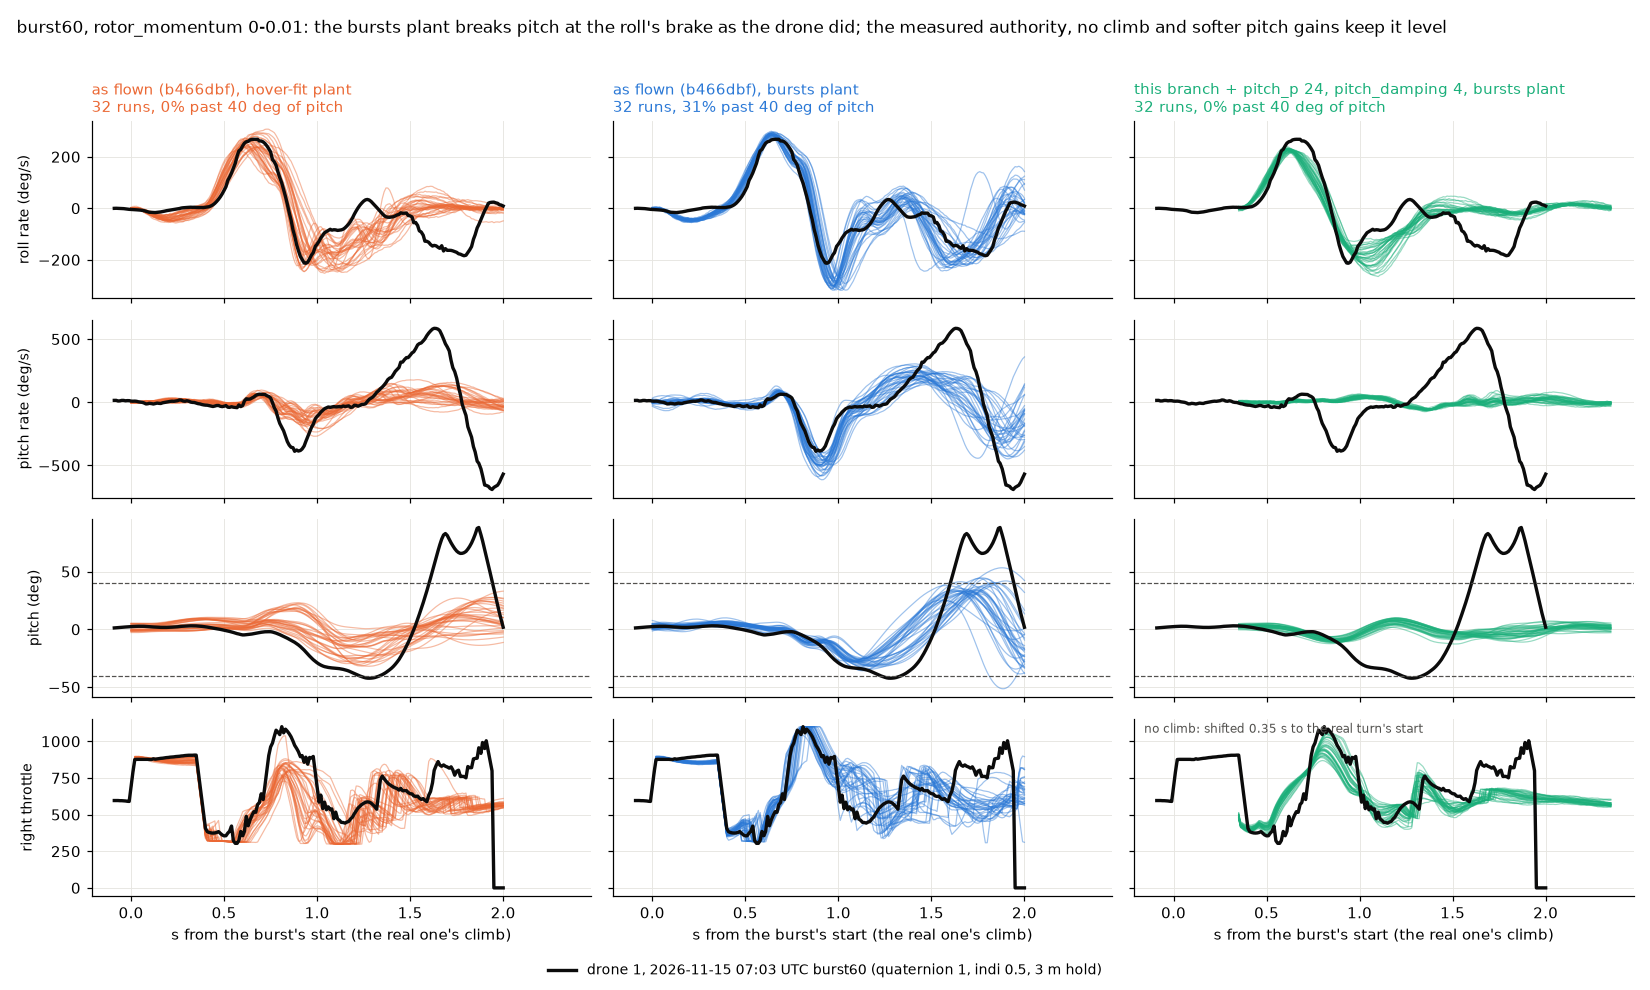
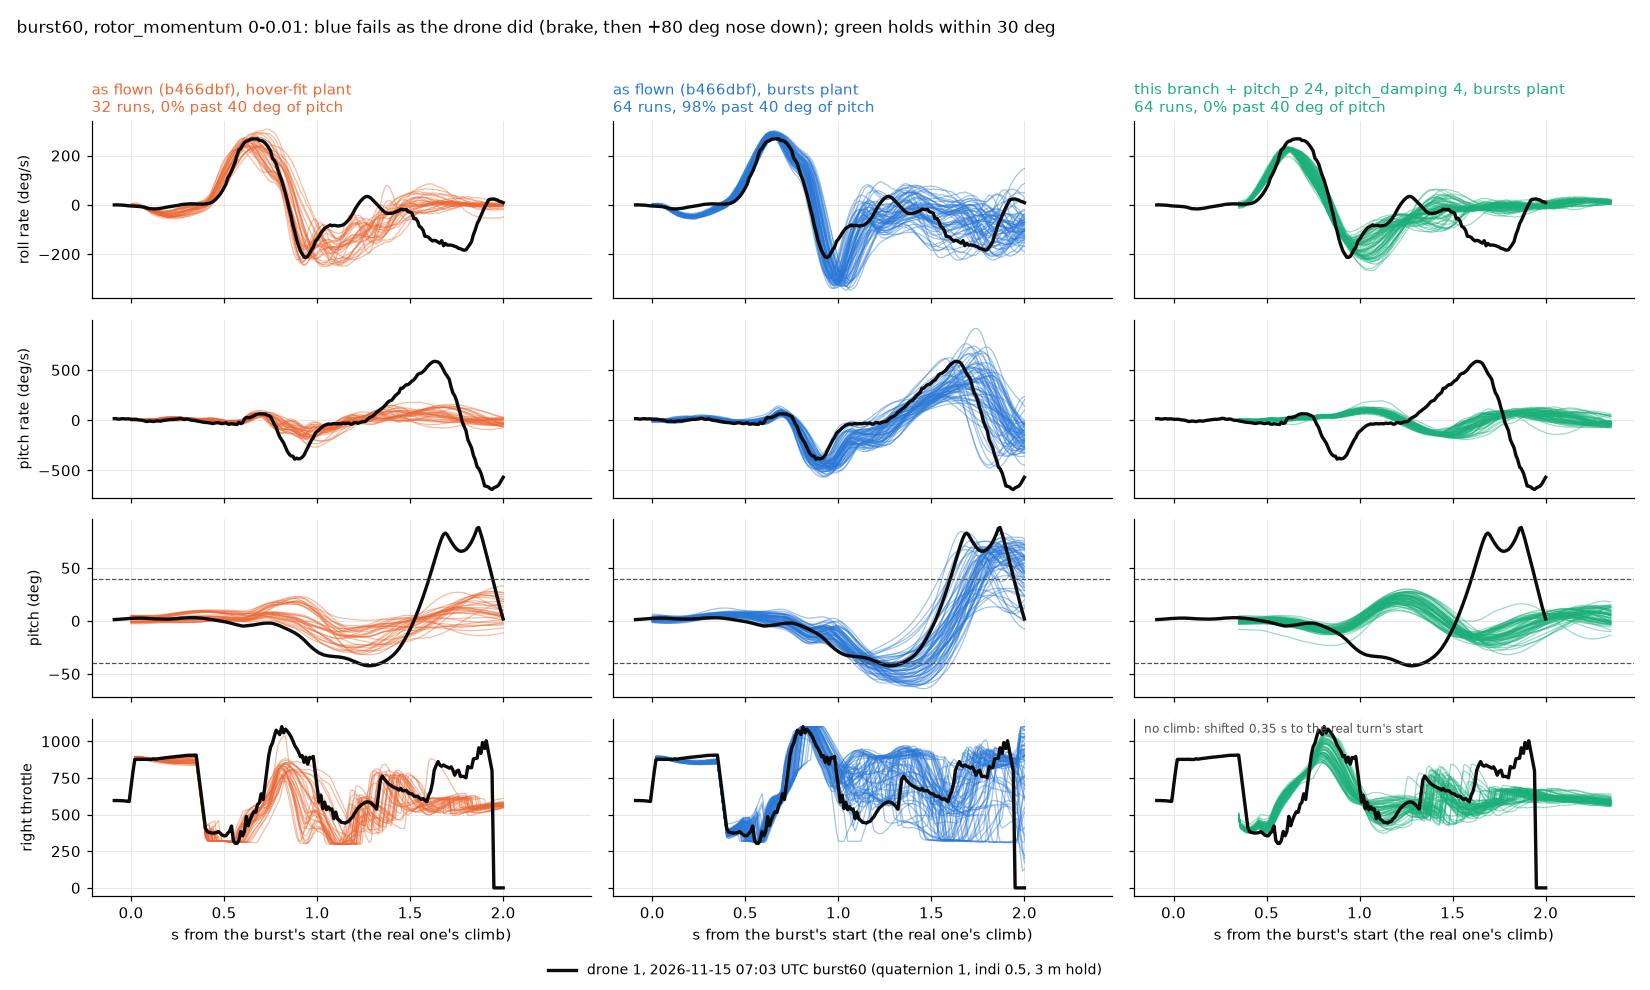
The bursts' plant, second half: burst60's nose-down swing after the brake is the forward speed's pitch moment past rigid.py's 1.5 m/s clip and tilt fade. New optional speed_range (rigid.py, rigid_step.c, which now carries speed_moment2); burst_replay sets the logged velocity (from attitude and speci

diff --git a/src/sw/sim/rigid.py b/src/sw/sim/rigid.py
@@ -40,7 +40,7 @@ AIR_DRAG = 0.03
 SOURCE = Path(__file__).with_name("rigid_step.c")
 LIBRARY = Path(__file__).with_name("rigid_step.so")
 # The scalar parameters in rigid_step.c's Params order (airframe parameters, then the geometry's constants as airframe.resolve gives them, then the thrust trim, then this sim's constants, then HULL).
-C_AIRFRAME = ("motor_delay", "right_motor_delay", "motor_tau", "right_motor_tau", "right_thrust_gain", "servo_delay", "right_servo_delay", "servo_wn", "right_servo_wn", "servo_zeta", "servo_slew", "link_k", "link_c", "left_play", "right_play", "left_band", "right_band", "band_k", "right_gain", "prop_torque", "prop_momentum", "inflow_damping", "edgewise_damping", "wash", "pitch_wake", "wake_tau", "roll_pendulum", "pitch_pendulum", "roll_from_yaw", "yaw_from_roll", "vx_pitch", "vx_drag", "vy_roll", "vy_drag", "tilt_push", "motor_start", "servo_compliance", "rotor_momentum", "motor_tau_down", "motor_idle", "motor_floor", "motor_coast", "motor_ceiling", "coast_below", "climb_inflow")
+C_AIRFRAME = ("motor_delay", "right_motor_delay", "motor_tau", "right_motor_tau", "right_thrust_gain", "servo_delay", "right_servo_delay", "servo_wn", "right_servo_wn", "servo_zeta", "servo_slew", "link_k", "link_c", "left_play", "right_play", "left_band", "right_band", "band_k", "right_gain", "prop_torque", "prop_momentum", "inflow_damping", "edgewise_damping", "wash", "pitch_wake", "wake_tau", "roll_pendulum", "pitch_pendulum", "roll_from_yaw", "yaw_from_roll", "vx_pitch", "vx_drag", "vy_roll", "vy_drag", "tilt_push", "motor_start", "servo_compliance", "rotor_momentum", "motor_tau_down", "motor_idle", "motor_floor", "motor_coast", "motor_ceiling", "coast_below", "climb_inflow", "speed_range", "speed_moment2")
 C_GEOMETRY = ("Ixx", "Iyy", "Izz", "arm", "cx", "cy", "tilt_arm", "hr", "hx", "hy", "J")
 loaded = None
 
@@ -265,7 +265,9 @@ class Sim:
         fade = np.clip((math.pi / 2 - np.arccos(np.clip(up[:, 2], -1, 1))) / (math.pi / 2 - ATTITUDE_RANGE), 0, 1)
         st.att = np.clip(np.column_stack([np.arctan2(up[:, 1], up[:, 2]), np.arctan2(-up[:, 0], np.hypot(up[:, 1], up[:, 2]))]), -ATTITUDE_RANGE, ATTITUDE_RANGE) * fade[:, None]
         rotated = np.einsum("nji,nj->ni", R0, self.vel)
-        st.vel = np.clip(rotated[:, :2], -SPEED_RANGE, SPEED_RANGE) * fade[:, None]
+        # Models with speed_range see the body-plane speed to it, unfaded (airframe.py).
+        reach = self.p["speed_range"] or SPEED_RANGE
+        st.vel = np.clip(rotated[:, :2], -reach, reach) * (1.0 if self.p["speed_range"] else fade[:, None])
         st.axial = rotated[:, 2:3]
         # The airframe's in-flight terms (attitude and speed moments, pushes) come with the rotors' thrust: off on the ground, and fading as the motors spin down, so a drone that has cut its motors is not pushed over.
         airborne = (self.contact_now == 0) * np.clip((self.state.motor[:, 0] + self.state.motor[:, 1]) / (self.mass * G), 0, 1)

diff --git a/src/sw/sim/burst_replay.py b/src/sw/sim/burst_replay.py
@@ -26,7 +26,7 @@ BANDS = {"left_band": 0.07189, "right_band": 0.003407}
 BAND_TILT = -2.5
 # Bounds of what --fit may move: (low, high).
 BOUNDS = {"tilt_authority": (0.3, 5.0), "servo_delay": (0.0, 0.12), "servo_inertia": (0.0, 0.003), "servo_wn": (8.0, 150.0), "servo_slew": (100.0, 3000.0), "rotor_momentum": (0.0, 0.08), "wash": (-0.5, 1.2), "prop_torque": (-0.04, 0.04),
-          "yaw_from_roll": (-0.05, 0.05), "inflow_damping": (0.0, 2.0), "differential_slope": (0.2, 1.5), "link_c": (0.0, 0.3), "climb_inflow": (0.0, 0.3)}
+          "yaw_from_roll": (-0.05, 0.05), "inflow_damping": (0.0, 2.0), "differential_slope": (0.2, 1.5), "link_c": (0.0, 0.3), "climb_inflow": (0.0, 0.3), "servo_compliance": (0.0, 1.0), "link_k": (0.2, 20.0), "pitch_wake": (-1.5, 1.0), "wake_tau": (0.02, 2.0), "edgewise_damping": (-2.0, 2.0), "servo_zeta": (0.2, 2.0), "speed_moment2": (-0.05, 0.05), "vx_drag": (0.0, 2.0), "vy_drag": (0.0, 2.0), "drag_z_x": (-0.5, 0.5)}
 # Terms fitted as one for both sides.
 PAIRED = {"servo_delay": "right_servo_delay", "servo_wn": "right_servo_wn", "motor_tau": "right_motor_tau"}
 
@@ -43,6 +43,14 @@ class Window(F.Log):
         hover = (df["flip"].fillna(0) == 0) & (df["left_throttle"] > 300) & (df["right_throttle"] > 300) & (time < float(start))
         self.hover_throttle = df.loc[hover, ["left_throttle", "right_throttle"]].to_numpy(float)
         self.usable = np.abs(self.gyro).max(1) < 0.97 * self.gyro_range
+        # The velocity (m/s, world) from the logged attitude and specific force, from the hold's climb rate and no horizontal speed at the start: the bursts reach 4-6 m/s, where the speed terms matter, and the plant's own translation open loop drifts from it.
+        attitude, velocity = F.quaternion(*self.attitude[0])[None], np.array([0.0, 0.0, self.climb[0]])
+        self.velocity = np.zeros((len(self.time), 3))
+        for k in range(len(self.time)):
+            self.velocity[k] = velocity
+            velocity = velocity + (R.rotation(attitude)[0] @ (self.accel[k] * A.G) - np.array([0.0, 0.0, A.G])) * A.DT
+            if k + 1 < len(self.time):
+                attitude = R.integrate_quat(attitude, self.gyro[k + 1][None], A.DT)
 
 
 def plant(window, airframe, overrides):
@@ -76,6 +84,7 @@ def replay(window, plant, every):
         if k % stride == 0:
             sim.omega[:] = window.gyro[k - 1]
             sim.quat[:] = F.quaternion(*window.attitude[k - 1])
+            sim.vel[:] = window.velocity[k - 1]
         sim.step(window.throttle[k][None], tilt[k][None])
         rates[k] = sim.turned[0]
     return rates

diff --git a/src/sw/sim/rigid_step.c b/src/sw/sim/rigid_step.c
@@ -20,7 +20,7 @@ typedef struct {
     double link_k, link_c, left_play, right_play, left_band, right_band, band_k, right_gain;
     double prop_torque, prop_momentum, inflow_damping, edgewise_damping, wash, pitch_wake, wake_tau;
     double roll_pendulum, pitch_pendulum, roll_from_yaw, yaw_from_roll;
-    double vx_pitch, vx_drag, vy_roll, vy_drag, tilt_push, motor_start, servo_compliance, rotor_momentum, motor_tau_down, motor_idle, motor_floor, motor_coast, motor_ceiling, coast_below, climb_inflow;
+    double vx_pitch, vx_drag, vy_roll, vy_drag, tilt_push, motor_start, servo_compliance, rotor_momentum, motor_tau_down, motor_idle, motor_floor, motor_coast, motor_ceiling, coast_below, climb_inflow, speed_range, speed_moment2;
     double Ixx, Iyy, Izz, arm, cx, cy, tilt_arm, hr, hx, hy, J;
     double level, mean_left, mean_right;
     double mass, throttle_max, servo_limit, ground_k, ground_c, friction, air_drag, tilt_share;
@@ -137,7 +137,9 @@ void rigid_step(size_t n, size_t history, const Params *p, const double *table, 
         double rotated[3];
         apply_transpose(r0, v, rotated);
         // Clipped to the measured speeds and faded like the attitude (rigid.py SPEED_RANGE).
-        double vel0[2] = {clip(rotated[0], -1.5, 1.5) * fade, clip(rotated[1], -1.5, 1.5) * fade};
+        // Or, with speed_range, to it and unfaded (airframe.py).
+        double reach = p->speed_range > 0 ? p->speed_range : 1.5, faded = p->speed_range > 0 ? 1.0 : fade;
+        double vel0[2] = {clip(rotated[0], -reach, reach) * faded, clip(rotated[1], -reach, reach) * faded};
         // The airframe's in-flight terms (attitude and speed moments, pushes) come with the rotors' thrust: off on the ground, and fading as the motors spin down (rigid.py).
         double flying = contact_now[e] == 0 ? clip((st_motor[0] + st_motor[1]) / (p->mass * G), 0, 1) : 0.0;
         // airframe.py step.
@@ -194,6 +196,7 @@ void rigid_step(size_t n, size_t history, const Params *p, const double *table, 
             + p->pitch_wake * arm_tilt * wake[e]
             + p->cx * (left * c[0] + right * c[1])
             - p->edgewise_damping * p->hr * p->hr * total * w[1]
+            - flying * p->speed_moment2 * vel0[0] * fabs(vel0[0])
             - flying * p->pitch_pendulum * total * att0[1]
             - flying * p->hx * p->vx_drag * p->mass * vel0[0]
             + w[0] * hz - w[2] * hx;

diff --git a/src/sw/sim/airframe.py b/src/sw/sim/airframe.py
@@ -40,6 +40,8 @@ PARAMS = {
     "prop_torque": (-0.05, 0.05, -0.015), "prop_momentum": (-0.05, 0.05, 0.003), "rotor_momentum": (0.0, 0.1, 0.0),
     # The bursts' terms (2026-11-15, sw/sim/burst_replay.py): the tilt's pitch authority over the geometry's (resolve's tilt_arm times it) and the thrust lost per newton per m/s of climb along the shafts (axial inflow, as inflow_damping has it for the roll).
     "tilt_authority": (0.2, 5.0, 1.0), "climb_inflow": (0.0, 0.3, 0.0),
+    # And the speed the speed terms see (m/s): the body-plane speed clipped to it and not faded with the tilt, where rigid.py otherwise clips to SPEED_RANGE and fades (0: as before). The bursts move at 4-6 m/s.
+    "speed_range": (0.0, 20.0, 0.0),
     "inflow_damping": (-2.0, 5.0, 0.2), "edgewise_damping": (-2.0, 5.0, 0.05),
     "wash": (-1.0, 1.5, 0.0), "wash_z": (-0.2, 0.3, 0.02), "pitch_wake": (-1.5, 1.5, 0.0), "wake_tau": (0.01, 2.0, 0.15), "pitch_ground": (-1, 3, 0.0), "ground_scale": (0.01, 2.0, 0.1),
     "roll_pendulum": (-0.2, 0.2, 0.0), "pitch_pendulum": (-0.2, 0.2, 0.0), "drag_z_x": (-0.5, 0.5, 0.017), "drag_z_y": (-0.5, 0.5, 0.06), "speed_moment2": (-0.05, 0.05, 0.0), "tilt_speed": (-0.3, 0.3, 0.0), "tilt_push_speed": (0.0, 0.2, 0.0),
@@ -49,7 +51,7 @@ PARAMS = {
 }
 KEYS = list(PARAMS)
 # Terms a parameter set may leave out (they then stay off).
-OPTIONAL = ("pitch_ground", "pitch_wake", "motor_start", "servo_compliance", "speed_moment2", "tilt_speed", "tilt_push_speed", "rotor_momentum", "motor_tau_down", "motor_idle", "motor_floor", "motor_coast", "motor_ceiling", "coast_below", "climb_inflow")
+OPTIONAL = ("pitch_ground", "pitch_wake", "motor_start", "servo_compliance", "speed_moment2", "tilt_speed", "tilt_push_speed", "rotor_momentum", "motor_tau_down", "motor_idle", "motor_floor", "motor_coast", "motor_ceiling", "coast_below", "climb_inflow", "speed_range")
 # The running time (s) of a motor that has long been spinning.
 RUNNING = 10.0
 

diff --git a/src/sw/sim/models/NOTES.md b/src/sw/sim/models/NOTES.md
@@ -857,3 +857,7 @@ The gains are a setting and the main fix for what remains: on this plant the hol
 **The recovery** (recover_firmware, 64 events a scenario from the 3 m hold, the 07:02 flight's settings, quaternion 1, indi 0.5): on this plant 46e752d recovers tip 45-50% and tilt 25-27% of events (touching the ground in half), this branch 69% / 65% at pitch_damping 6 and 94% / 78% with the gains (touched 2-3%); on the raised pivots' hover fit 87-89% / 63-69% before, 98% / 72-77% now.
 
 **Not settled**: sw.sim.outdoor (the GPS hold in the hover sim, drawing the servos' timing ±25% and the tilt's authority ±20%) loses attitude on this plant in 10 of 32 hovers even in still air at pitch_damping 6 (10, 9, 14 at 0, 2, 4 m/s with the gains), where the drone has held every hover: its draws take the plant past the edge the drone flies at, so this plant is if anything too close to it. On the hover-fit plant the gains hold position worse there (held 28, 23, 19 of 32 at 0, 2, 4 m/s, against 32, 32, 26). The gains want a hover of their own before a burst. The climb_inflow term is weak. Not tried: a Smith predictor or phase lead on the pitch damping (the loop's limit is its 40 ms dead time and the servo's lag at 2.5 Hz); the sim now shows the shake it would have to remove.
+
+**Status (2026-11-15, handed to the main thread).** The model above was revised for burst60's second half: with the logged velocity (attitude and specific force integrated) set back in burst_replay, the nose-down swing after the brake (+30 rad/s² the plant lacked from 13.0 to 13.4 s, while the bursts move 4-6 m/s) is the forward speed's pitch moment beyond rigid.py's 1.5 m/s clip and tilt fade. New optional term speed_range (rigid.py and rigid_step.c, which now also carries speed_moment2; parity 1e-9); airframe_2026-11-15_bursts.json now: tilt_authority 1.95, speed_range 8, vx_drag 0.341, speed_moment2 0.00506, servo_delay 0.0468, wash 0.377, prop_torque -0.0118 (the tables above are on the first version, tilt_authority 2.3 without the speed terms). A q|q| pitch-rate moment fitted the tumble as well open loop but ran away closed loop and was dropped. On it, b466dbf's burst60 (64 runs, rotor_momentum 0-0.01) peaks at 68 degrees of pitch (46-76, 10th-90th; max 84) and 441 deg/s nose down (248-669), the drone 88 and 585 (burst60_repro_2026-11-15.png, blue); the hold still shakes as the drone did (8 deg/s, 2.57 Hz, none tipped). This branch with pitch_p 24, pitch_damping 4 (green): burst60 peaks 22 degrees (16-27). Clean / past 40 degrees over all five bands on the revised plant: burst30 46e752d 91% / 7%, branch + gains 100% / 0%; burst60 b466dbf 69% / 54%, 46e752d 89% / 0%, branch + gains 100% / 1%; burst90 b466dbf 42% / 86%, 46e752d 64% / 28%, branch + gains 96% / 100% (the 90-degree burst's pitch reads past 40 on this plant in every run and touches in 2%: not cleared, fly burst30 or burst60 first). Harsher plants for branch + gains (burst30 / 60 / 90 clean): tilt authority 2.1-2.6x 100 / 100 / 61%; speed moments 2x 85 / 74 / 17%; servos 70 ms 95 / 87 / 1%; all three 13 / 0 / 0%.
+
+Checked: the estimator past 45 degrees (the logged attitude follows the gyro integrated alone within 2 degrees through 13.6 s; the Euler roll's jump near 90 degrees of pitch is the representation only). Tested without effect on the second half: large-amplitude servo terms (slew, compliance, link stiffness, swing reaction; the fits wanted lower authority there and still missed by 54 deg/s RMS). Unchecked: the tilt's authority as a function of tilt in the plant (the --bins evidence is in the hovers, not modeled), burst30's timing (the main thread's run: the sim's pitch swing about 0.2 s early; fit it with burst60's peak), burst90 on the revised plant, the scorecard over every flight, the gains in wind (sw.sim.outdoor runs did not finish). What would pin the speed moment: a GPS-logged hover pattern at 3-6 m/s (speed sticks) with the velocity in the log.
